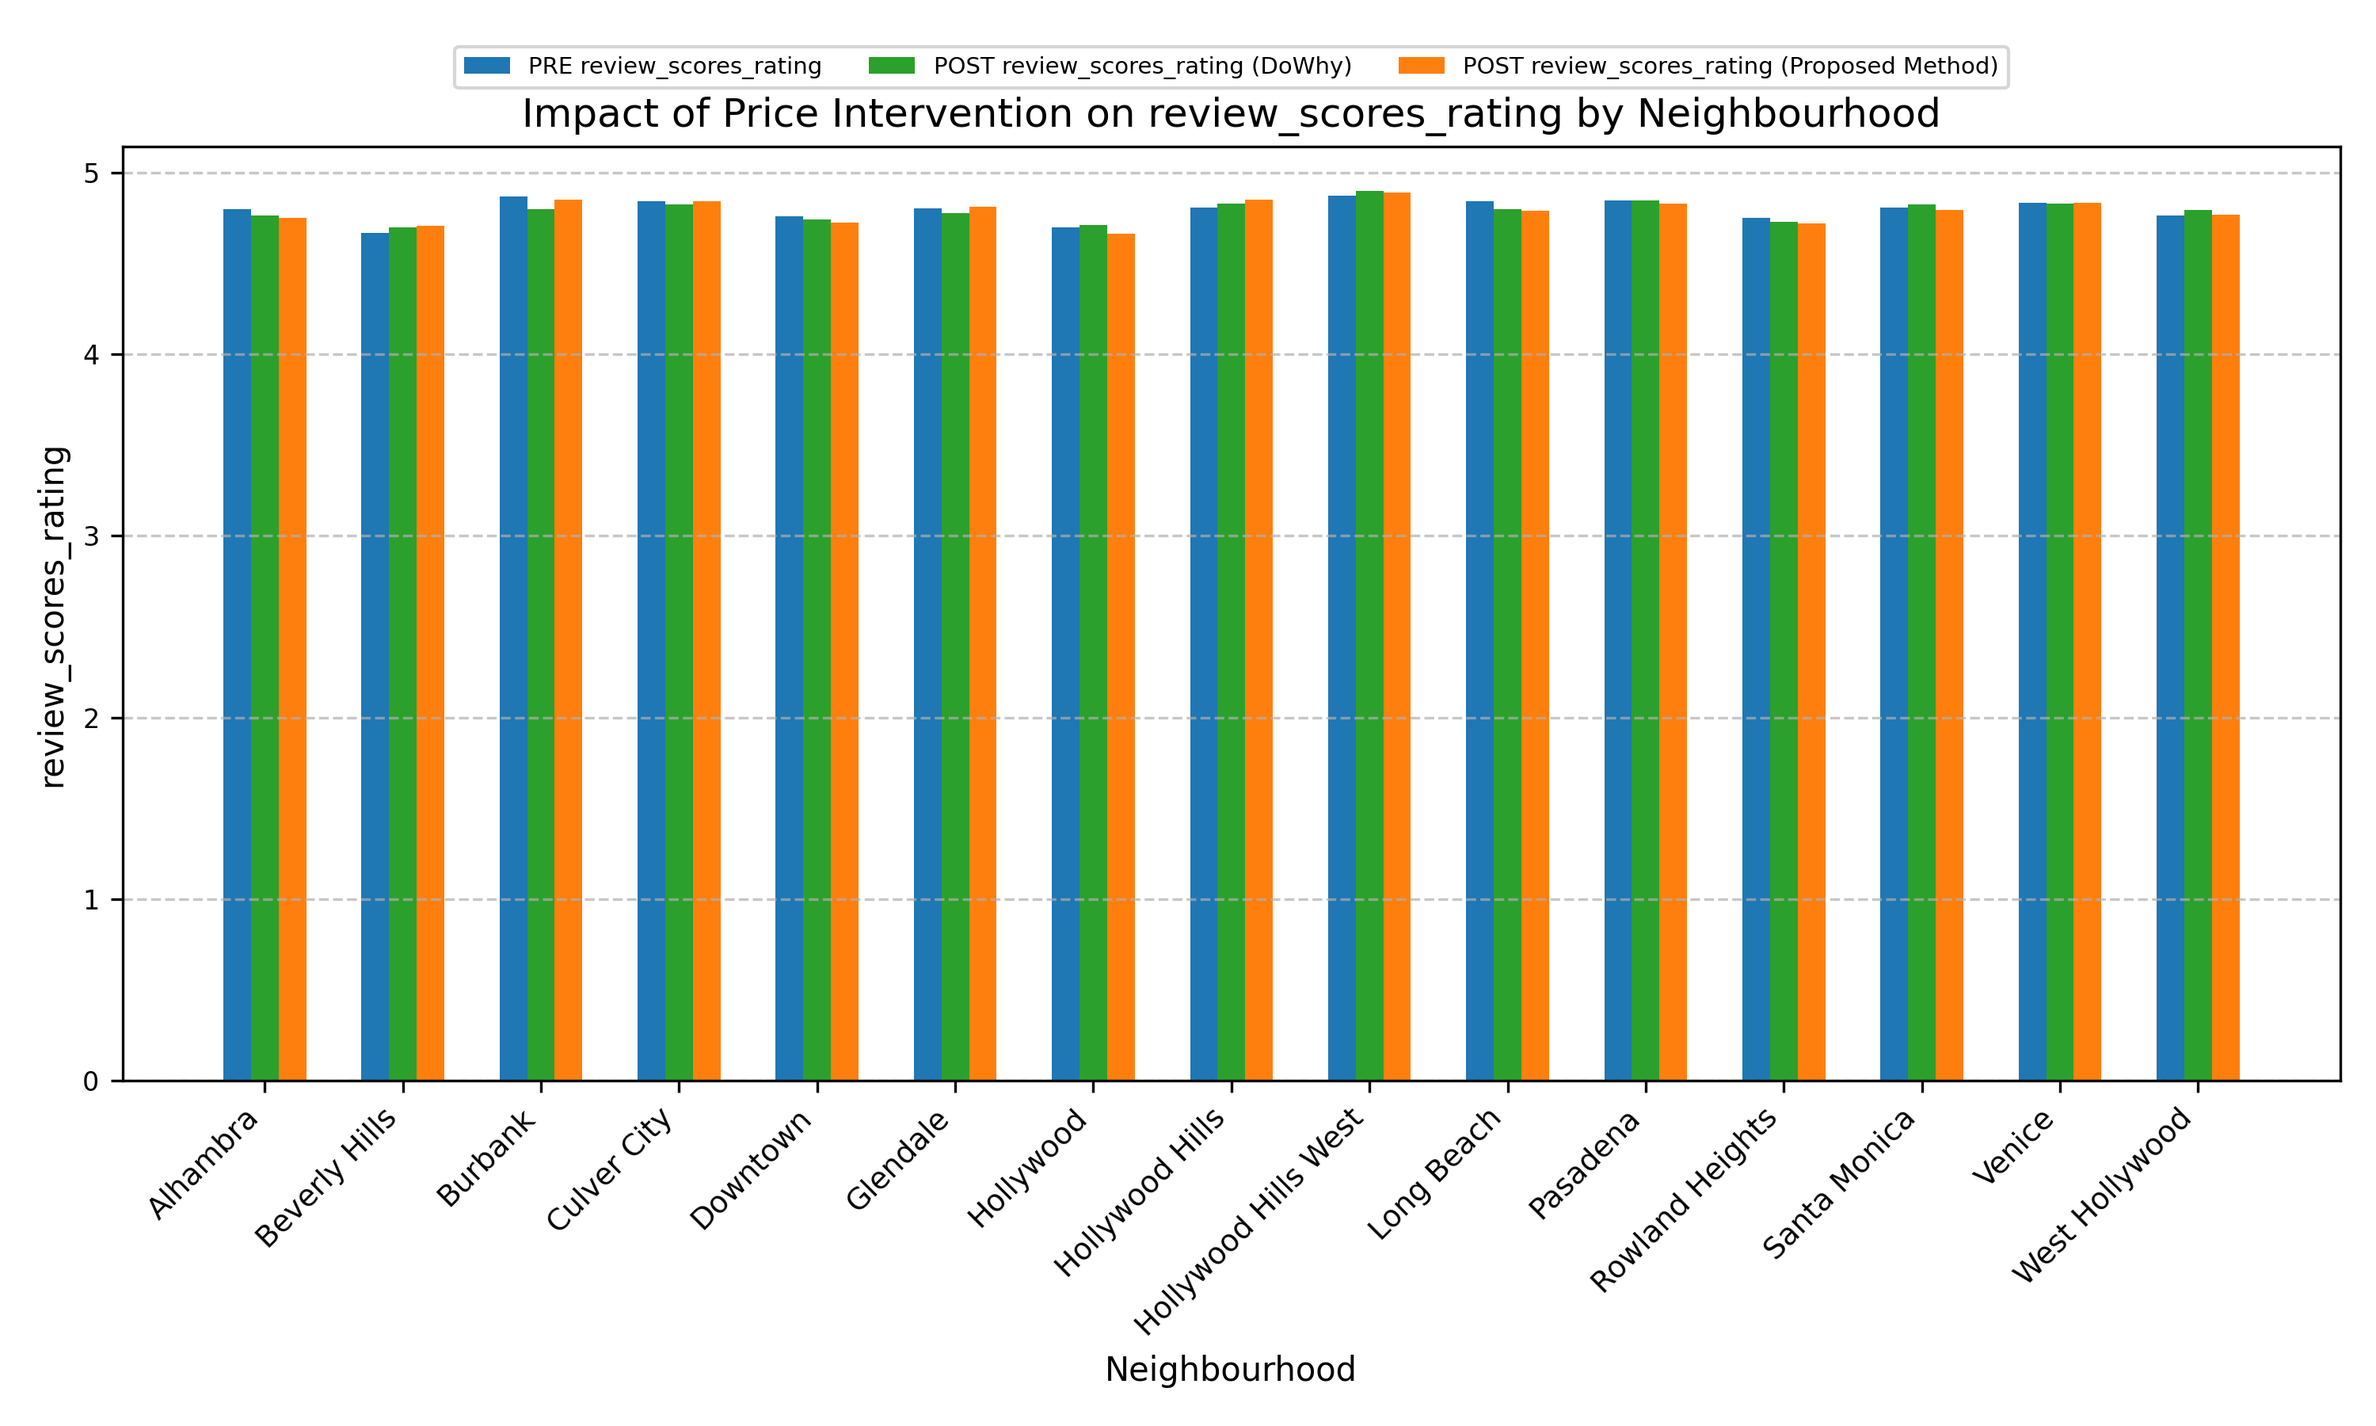
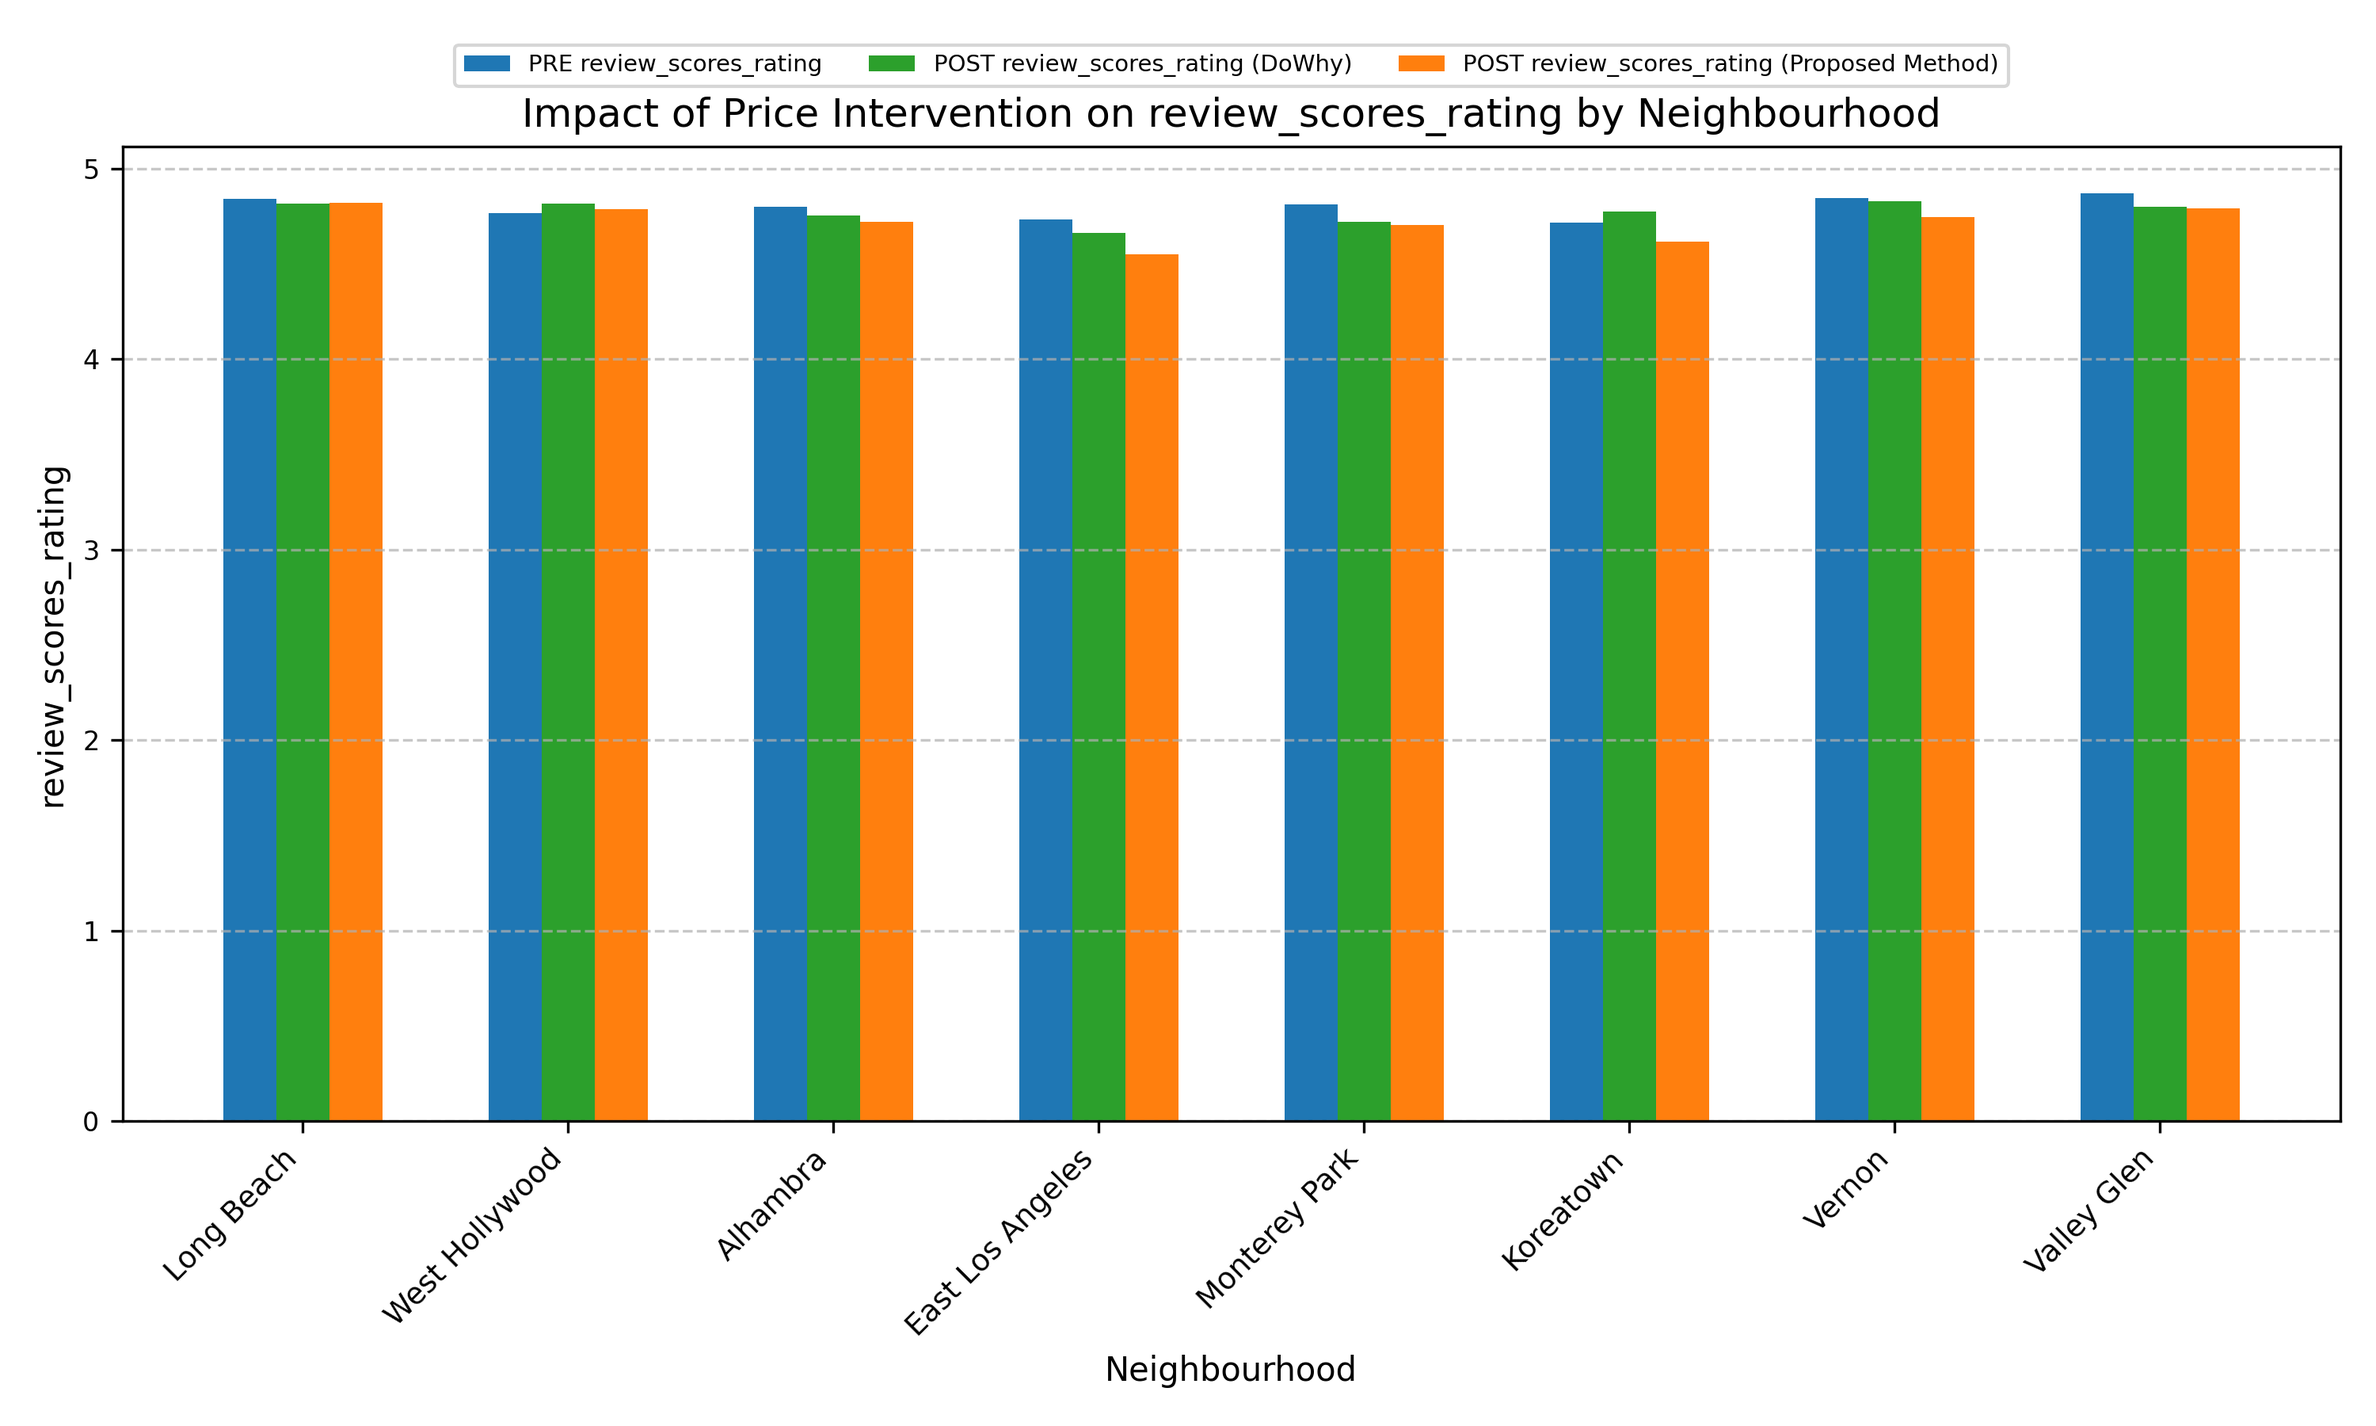
show results for neighbourhoods that significant in T-test

diff --git a/airbnb.py b/airbnb.py
@@ -9,35 +9,37 @@ from scipy.stats import ttest_rel
 from verify import verify_extended_dataset
 import time
 
+
 # 結果検証のためのt検定 attrとPOST_attrを比較
 def paired_ttest(df, attr):
     # サンプルデータフレーム（df）は既に存在すると仮定
     # 各 neighbourhood_cleansed ごとに対応のある t 検定を実施
     results = []
-    neighbourhoods = df['neighbourhood_cleansed'].unique()  # ユニークな neighbourhood 名を取得
+    neighbourhoods = df["neighbourhood_cleansed"].unique()  # ユニークな neighbourhood 名を取得
 
     for neighbourhood in neighbourhoods:
         # 各 neighbourhood のデータを取得
-        neighbourhood_data = df[df['neighbourhood_cleansed'] == neighbourhood]
-        
+        neighbourhood_data = df[df["neighbourhood_cleansed"] == neighbourhood]
+
         # データ数が少なすぎる場合はスキップ
         if len(neighbourhood_data) < 2:
             continue
 
         # 対応のある t 検定を実行
-        t_stat, p_value = ttest_rel(neighbourhood_data[attr], neighbourhood_data[f'POST_{attr}'])
-        
+        t_stat, p_value = ttest_rel(neighbourhood_data[attr], neighbourhood_data[f"POST_{attr}"])
+
         # 結果を保存
-        results.append({'neighbourhood_cleansed': neighbourhood, 't_stat': t_stat, 'p_value': p_value})
+        results.append({"neighbourhood_cleansed": neighbourhood, "t_stat": t_stat, "p_value": p_value})
 
     # 検定結果をデータフレームに変換
     results_df = pd.DataFrame(results)
 
     # 有意水準 0.05 以下の結果を表示
     if not results_df.empty:
-        significant_results = results_df[results_df['p_value'] < 0.05]
+        significant_results = results_df[results_df["p_value"] < 0.05]
         print("\n有意な差が検出された neighbourhood_cleansed:")
         print(significant_results)
+        return significant_results["neighbourhood_cleansed"].tolist()
     else:
         print("\n有意な差は検出されませんでした（データ不足の可能性あり）")
 
@@ -48,24 +50,24 @@ df = pd.read_csv("datasets/airbnb_cleaned.csv")
 # 必要なカラムの選択とリネーム
 # neighbourhood_cleansed (グループ/介入単位)
 # room_type (カテゴリ/層別化単位)
-target_cols = ['room_type', 'review_scores_rating', 'price', 'neighbourhood_cleansed']
+target_cols = ["room_type", "review_scores_rating", "price", "neighbourhood_cleansed"]
 df = df[target_cols].dropna()
 
 # Airbnbデータの価格は "$1,200.00" のような文字列の可能性があるため数値変換
-if df['price'].dtype == 'O':
-    df['price'] = df['price'].replace('[\$,]', '', regex=True).astype(float)
+if df["price"].dtype == "O":
+    df["price"] = df["price"].replace("[\$,]", "", regex=True).astype(float)
 
 # レビュースコアが欠損している行や、異常値を除外
-df = df[df['review_scores_rating'] > 0]
+df = df[df["review_scores_rating"] > 0]
 
 print(df.head())
 print(f"Data Shape: {df.shape}")
 
 
 # 分析対象の設定
-target_room_type = 'Entire home/apt'
+target_room_type = "Entire home/apt"
 # 介入対象のネイバーフッドを動的に決定（最も物件数が多い地域をターゲットにする）
-target_neighbourhood = df[df['room_type'] == target_room_type]['neighbourhood_cleansed'].value_counts().idxmax()
+target_neighbourhood = df[df["room_type"] == target_room_type]["neighbourhood_cleansed"].value_counts().idxmax()
 print(f"Intervention Target Neighbourhood: {target_neighbourhood}")
 
 
@@ -73,22 +75,25 @@ print(f"Intervention Target Neighbourhood: {target_neighbourhood}")
 interventions = {
     "price": {
         # 特定の地域(neighbourhood)かつ特定の部屋タイプ(room_type)に対して介入
-        "condition": lambda row: row["neighbourhood_cleansed"] == target_neighbourhood and row['room_type'] == target_room_type, 
-        "intervention": lambda x: x * 0.85 # 価格を15%下げる介入
+        "condition": lambda row: row["neighbourhood_cleansed"] == target_neighbourhood
+        and row["room_type"] == target_room_type,
+        "intervention": lambda x: x * 0.85,  # 価格を15%下げる介入
     }
 }
-result_val = 'review_scores_rating'
+result_val = "review_scores_rating"
 
 
 # 従来のWhat-If問合せ
 # DAG定義: neighbourhoodとroom_typeが価格と評価に影響し、価格が評価に影響する
-causal_graph = nx.DiGraph([
-    ('neighbourhood_cleansed', 'room_type'),
-    ('neighbourhood_cleansed', 'price'),
-    ('room_type', 'price'),
-    ('price', 'review_scores_rating'),
-    ('neighbourhood_cleansed', 'review_scores_rating')
-])
+causal_graph = nx.DiGraph(
+    [
+        ("neighbourhood_cleansed", "room_type"),
+        ("neighbourhood_cleansed", "price"),
+        ("room_type", "price"),
+        ("price", "review_scores_rating"),
+        ("neighbourhood_cleansed", "review_scores_rating"),
+    ]
+)
 
 causal_model = gcm.ProbabilisticCausalModel(causal_graph)
 gcm.auto.assign_causal_mechanisms(causal_model, df)
@@ -96,7 +101,7 @@ gcm.fit(causal_model, df)
 
 # convresult = gcm.interventional_samples(causal_model, {'price': lambda x: x*0.5}, observed_data=df)
 convresult = gcm.interventional_samples(causal_model, interventions, observed_data=df)
-convresult = convresult.loc[convresult['room_type'] == target_room_type]
+convresult = convresult.loc[convresult["room_type"] == target_room_type]
 
 print("Conventional Result Head:")
 print(convresult.head())
@@ -111,33 +116,35 @@ valid_neighbourhood = group_counts[group_counts >= 100].index
 filtered_conv = convresult[convresult["neighbourhood_cleansed"].isin(valid_neighbourhood)]
 
 print(f"従来手法に対するt検定")
-paired_ttest(filtered_conv, result_val)
+sig_neighbourhoods_conv = paired_ttest(filtered_conv, result_val)
 
-groupby_convresult = filtered_conv.groupby(['neighbourhood_cleansed'])[['price', 'POST_price', 'review_scores_rating', 'POST_review_scores_rating']].mean()
+groupby_convresult = filtered_conv.groupby(["neighbourhood_cleansed"])[
+    ["price", "POST_price", "review_scores_rating", "POST_review_scores_rating"]
+].mean()
 
 
 # 提案手法によるWhat-If問合せ
 start_all = time.time()
 causal_query = CausalQuery()
-agg_func = 'mean'
-groupby_col = 'room_type' # カテゴリ単位で集約（同じ部屋タイプ内の他地域の価格平均）
+agg_func = "mean"
+groupby_col = "room_type"  # カテゴリ単位で集約（同じ部屋タイプ内の他地域の価格平均）
 
 # DAG設定: 近隣相場(Average Price of other neighbourhoods)が評価に影響を与えると仮定
 causal_query.set_causal_graph(
     [
-        ('neighbourhood_cleansed', 'room_type'),
-        ('neighbourhood_cleansed', 'price'),
-        ('price', 'review_scores_rating'),
-        ('neighbourhood_cleansed', 'review_scores_rating')
+        ("neighbourhood_cleansed", "room_type"),
+        ("neighbourhood_cleansed", "price"),
+        ("price", "review_scores_rating"),
+        ("neighbourhood_cleansed", "review_scores_rating"),
     ],
-    [('price', 'review_scores_rating')], # 拡張エッジ（他地域の価格が評価に干渉）
-    groupby_col, 
-    agg_func
+    [("price", "review_scores_rating")],  # 拡張エッジ（他地域の価格が評価に干渉）
+    groupby_col,
+    agg_func,
 )
 
 start_exdata = time.time()
 # blockcol='neighbourhood_cleansed' により、"同じRoom Typeだが異なるNeighbourhood" の価格を集約
-ex_training_data = causal_query.extend_dataset(df, blockcol='neighbourhood_cleansed')
+ex_training_data = causal_query.extend_dataset(df, blockcol="neighbourhood_cleansed")
 end_exdata = time.time()
 
 # 拡張データの確認（デバッグ用）
@@ -151,59 +158,74 @@ start_whatif = time.time()
 proresult = causal_query.what_if(ex_training_data, interventions)
 end_all = time.time()
 
-proresult = proresult[proresult['room_type'] == target_room_type]
+proresult = proresult[proresult["room_type"] == target_room_type]
 
 # データの絞り込み
 # 条件を満たす行のみ残す
 filtered_pro = proresult[proresult["neighbourhood_cleansed"].isin(valid_neighbourhood)]
 print(f"提案手法に対するt検定")
-paired_ttest(filtered_pro, result_val)
+sig_neighbourhoods_pro = paired_ttest(filtered_pro, result_val)
 
-groupby_proresult = filtered_pro.groupby(['room_type', 'neighbourhood_cleansed'])[['price', 'POST_price', 'review_scores_rating', 'POST_review_scores_rating']].mean()
+groupby_proresult = filtered_pro.groupby(["room_type", "neighbourhood_cleansed"])[
+    ["price", "POST_price", "review_scores_rating", "POST_review_scores_rating"]
+].mean()
 
+qualified_neighbourhoods = list(set(sig_neighbourhoods_conv) | set(sig_neighbourhoods_pro))
+groupby_proresult_filtered = groupby_proresult[
+    groupby_proresult.index.get_level_values("neighbourhood_cleansed").isin(qualified_neighbourhoods)
+]
 
 # グラフ作成
 # フォントサイズを設定（横幅に応じて調整）
 base_font_size = 10  # 基本の文字サイズ
-rcParams.update({
-    'font.size': base_font_size,       # 全体のフォントサイズ
-    'axes.titlesize': base_font_size * 1.2,  # タイトル
-    'axes.labelsize': base_font_size,        # 軸ラベル
-    'xtick.labelsize': base_font_size * 0.9, # X軸目盛り
-    'ytick.labelsize': base_font_size * 0.8, # Y軸目盛り
-    'legend.fontsize': base_font_size * 0.7  # 凡例
-})
+rcParams.update(
+    {
+        "font.size": base_font_size,  # 全体のフォントサイズ
+        "axes.titlesize": base_font_size * 1.2,  # タイトル
+        "axes.labelsize": base_font_size,  # 軸ラベル
+        "xtick.labelsize": base_font_size * 0.9,  # X軸目盛り
+        "ytick.labelsize": base_font_size * 0.8,  # Y軸目盛り
+        "legend.fontsize": base_font_size * 0.7,  # 凡例
+    }
+)
 
-# 物件数(データサイズ)が多い上位10エリアを選定
-top_n = 15
-# 元データdfでneighbourhoodごとの件数を数え、多い順にindexを取得
-top_neighbourhoods = df['neighbourhood_cleansed'].value_counts().head(top_n).index
-groupby_proresult_plot = groupby_proresult[groupby_proresult.index.get_level_values('neighbourhood_cleansed').isin(top_neighbourhoods)]
-groupby_convresult_plot = groupby_convresult[groupby_convresult.index.isin(top_neighbourhoods)]
+top_n = 20
+valid_counts = df[df["neighbourhood_cleansed"].isin(qualified_neighbourhoods)]["neighbourhood_cleansed"].value_counts()
+final_target_neighbourhoods = valid_counts.head(top_n).index
 
-neighbourhoods = groupby_proresult_plot.index.get_level_values('neighbourhood_cleansed')  # 店舗名(地域名)
+groupby_proresult_plot = groupby_proresult[
+    groupby_proresult.index.get_level_values("neighbourhood_cleansed").isin(final_target_neighbourhoods)
+]
+groupby_convresult_plot = groupby_convresult[groupby_convresult.index.isin(final_target_neighbourhoods)]
+
+groupby_proresult_plot = groupby_proresult_plot.reindex(final_target_neighbourhoods, level='neighbourhood_cleansed')
+groupby_convresult_plot = groupby_convresult_plot.reindex(final_target_neighbourhoods)
+
+neighbourhoods = groupby_proresult_plot.index.get_level_values("neighbourhood_cleansed")  # 地域名
 x = np.arange(len(neighbourhoods))
 pre_result = groupby_proresult_plot[result_val]  # 平均評価
-post_convresult = groupby_convresult_plot[f'POST_{result_val}']
-post_proresult = groupby_proresult_plot[f'POST_{result_val}']  # POST平均評価
+post_convresult = groupby_convresult_plot[f"POST_{result_val}"]
+post_proresult = groupby_proresult_plot[f"POST_{result_val}"]  # POST平均評価
 
 # 棒グラフの幅と位置設定
 bar_width = 0.2  # 各棒の幅
 offset = bar_width  # 棒を横にずらす量
 
 # グラフの描画
-plt.figure(figsize=(10, 6)) # サイズ調整
-plt.bar(x, pre_result, width=bar_width, label=f'PRE {result_val}', color='tab:blue')
-plt.bar(x+offset, post_convresult, width=bar_width, label=f'POST {result_val} (DoWhy)', color='tab:green')
-plt.bar(x+2*offset, post_proresult, width=bar_width, label=f'POST {result_val} (Proposed Method)', color='tab:orange')
+plt.figure(figsize=(10, 6))  # サイズ調整
+plt.bar(x, pre_result, width=bar_width, label=f"PRE {result_val}", color="tab:blue")
+plt.bar(x + offset, post_convresult, width=bar_width, label=f"POST {result_val} (DoWhy)", color="tab:green")
+plt.bar(
+    x + 2 * offset, post_proresult, width=bar_width, label=f"POST {result_val} (Proposed Method)", color="tab:orange"
+)
 
 # グラフの装飾
 plt.title(f"Impact of Price Intervention on {result_val} by Neighbourhood")
 plt.xlabel("Neighbourhood")
-plt.xticks(x + bar_width, neighbourhoods, rotation=45, ha='right')  # 45度回転、右揃え
+plt.xticks(x + bar_width, neighbourhoods, rotation=45, ha="right")  # 45度回転、右揃え
 plt.ylabel(f"{result_val}")
-plt.legend(loc='lower center', bbox_to_anchor=(0.5, 1.05), ncol=3)
-plt.grid(axis='y', linestyle='--', alpha=0.7)
+plt.legend(loc="lower center", bbox_to_anchor=(0.5, 1.05), ncol=3)
+plt.grid(axis="y", linestyle="--", alpha=0.7)
 plt.tight_layout()
 
 # グラフを保存

diff --git a/abortion.py b/abortion.py
@@ -210,9 +210,9 @@ plt.savefig(f"exp_result/{result_val}_{block_col}_ex({agg_func}).png", dpi=300)
 # plt.close()
 
 # 結果の表示
-print(f"更新前 (Mean by Year)：\n{pre_result.head()}")
-print(f"更新後 DoWhy (Mean by Year)：\n{post_convresult.head()}")
-print(f"更新後 提案手法 (Mean by Year)：\n{post_proresult.head()}")
+print(f"更新前 (Mean by Year)：\n{pre_result}")
+print(f"更新後 DoWhy (Mean by Year)：\n{post_convresult}")
+print(f"更新後 提案手法 (Mean by Year)：\n{post_proresult}")
 
 # 実行時間の表示
 print(f"************************\n提案手法の実行時間\n************************\n")
